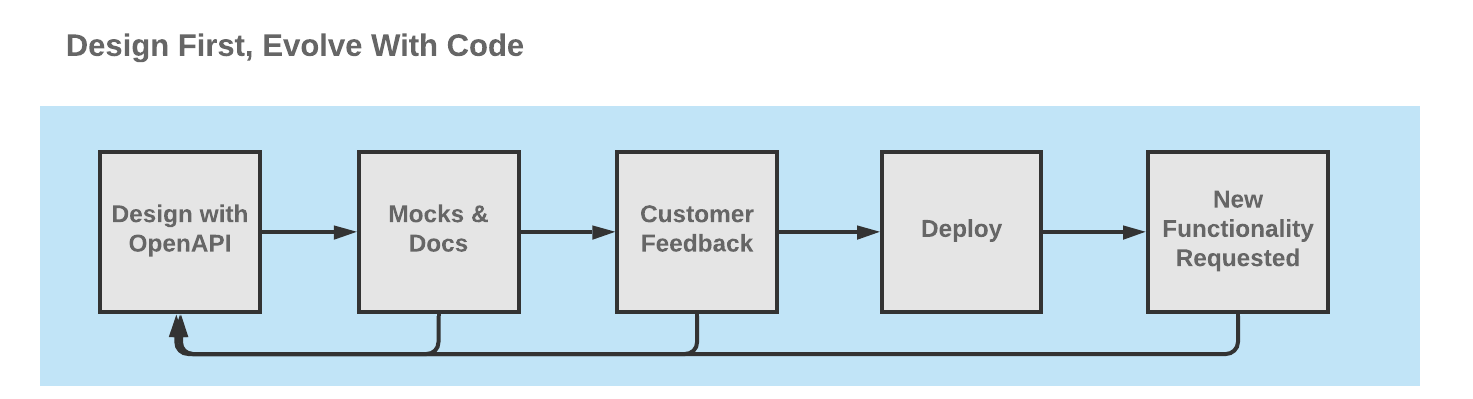
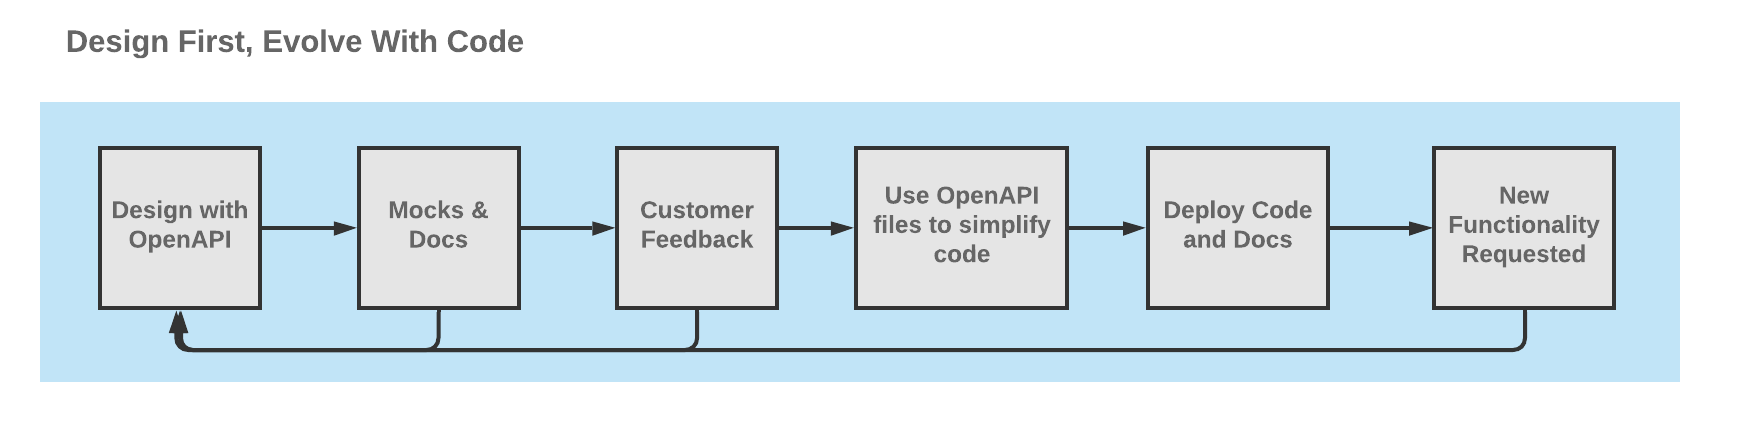
yup

diff --git a/content/api-descriptions-as-production-code/source.md b/content/api-descriptions-as-production-code/source.md
@@ -16,19 +16,21 @@ revealOptions:
 
 ---
 
+<!-- .slide: data-background="img/wework.jpg" data-background-size="contain" -->
+
+<img height="100" src="img/wework-logo.jpg">
+
+---
+
 <!-- .slide: data-background="img/trip.jpg" -->
 
 ---
 
-<!-- .slide: data-background="img/offset-earth.png" -->
+<!-- .slide: data-background="img/unicorn.jpg" data-background-size="contain" -->
 
 ---
 
-<!-- .slide: data-background="img/dino.png" data-background-size="contain" -->
-
----
-
-## 2018 Questions
+## 2017-2018 Questions
 
 1. Design First or Code First? 
 1. What tooling supports OpenAPI v3.0? <!-- .element: class="fragment" -->
@@ -37,18 +39,6 @@ revealOptions:
 1. How/when do we create mocks?  <!-- .element: class="fragment" -->
 1. How can we enforce style guides for docs?  <!-- .element: class="fragment" -->
 1. How do we keep code and docs in sync?  <!-- .element: class="fragment" -->
-
----
-
-<!-- .slide: data-background="img/workflow.jpeg" data-background-size="contain" data-background-color="#fff" -->
-
----
-
-<!-- .slide: data-background="img/workflow2.jpeg" data-background-size="contain" data-background-color="#fff" -->
-
----
-
-<img src="img/logo.dark.png" style="border:0; background:transparent;box-shadow:0">
 
 ---
 
@@ -61,6 +51,18 @@ https://openapi.tools <!-- .element: class="fragment" -->
 ---
 
 <!-- .slide: data-background="img/tools.png" data-background-size="contain" -->
+
+---
+
+<!-- .slide: data-background="img/workflow.jpeg" data-background-size="contain" data-background-color="#fff" -->
+
+---
+
+<!-- .slide: data-background="img/workflow2.jpeg" data-background-size="contain" data-background-color="#fff" -->
+
+---
+
+<img src="img/logo.dark.png" style="border:0; background:transparent;box-shadow:0">
 
 ---
 
@@ -151,11 +153,13 @@ https://stoplight.io/studio <!-- .element: class="fragment" -->
 
 <!-- .slide: data-background="img/studio.png" data-background-size="contain" data-background-color="#000" -->
 
-<!-- TODO Add file system image -->
+---
+
+<!-- .slide: data-background="img/studio-files.png" data-background-size="contain" data-background-color="#eee" -->
 
 ---
 
-<!-- .slide: data-background="img/studio-adv.png" data-background-size="contain" data-background-color="#000" -->
+<!-- .slide: data-background="img/studio-adv.png" data-background-size="contain" data-background-color="#666" -->
 
 ---
 
@@ -185,13 +189,11 @@ Hosted Mock Server coming soon... ⏳ <!-- .element: class="fragment" -->
 
 ---
 
-- ⛔ Documentation
-- ⛔ API Specifications <!-- .element: class="fragment" -->
-- ✅ API Description Documents <!-- .element: class="fragment" -->
+⛔ Documentation
 
 ---
 
-✅ **How to use API descriptions as code!**
+✅ **How to use API descriptions to simplify code!**
 
 ---
 
